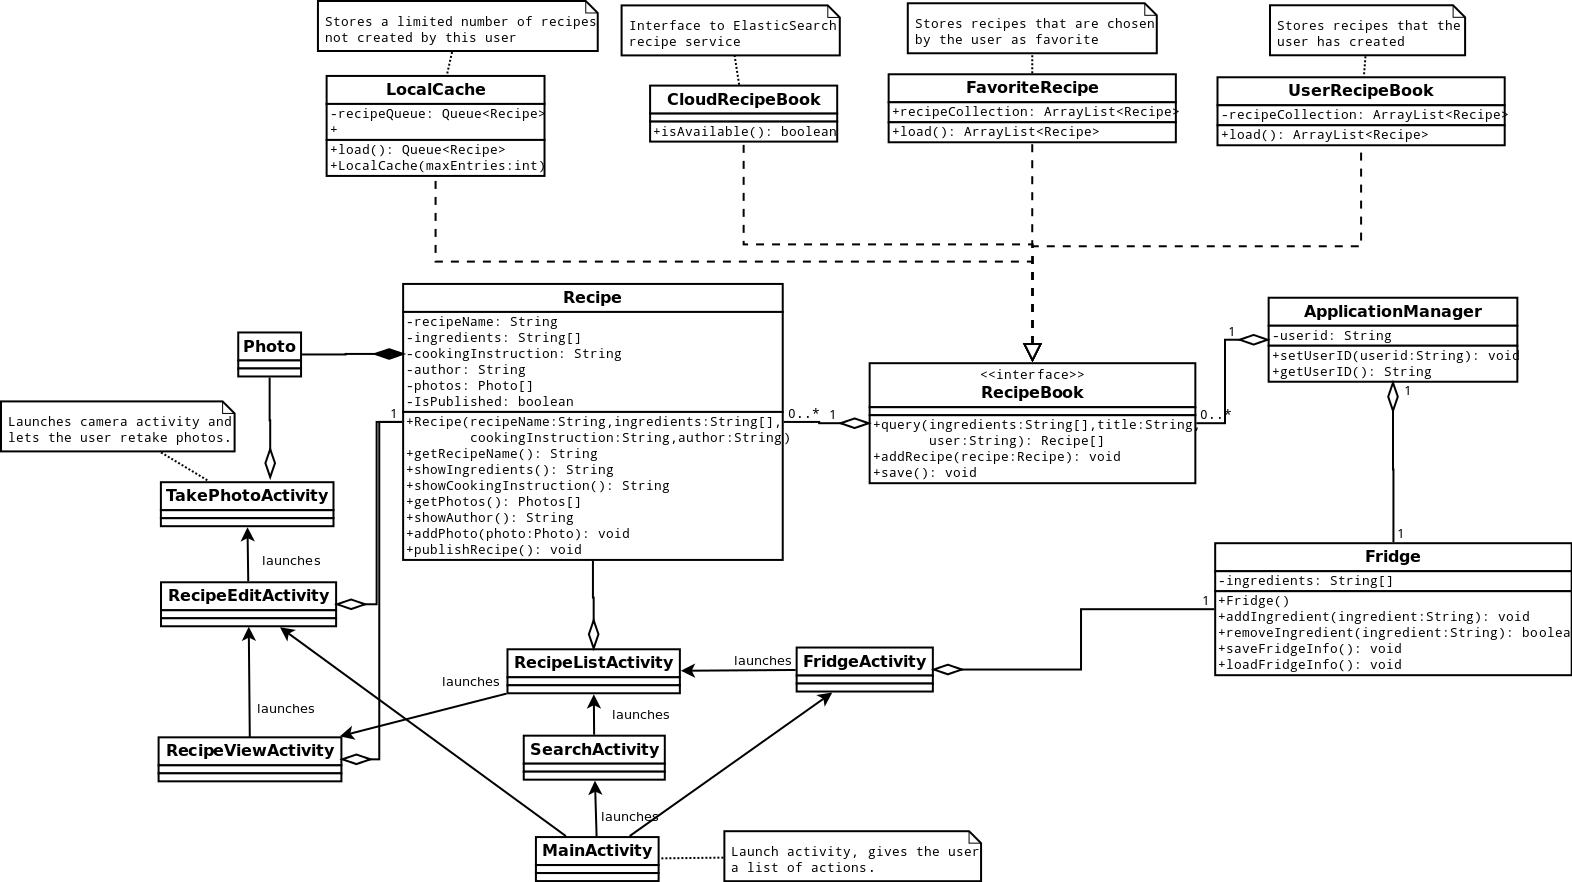
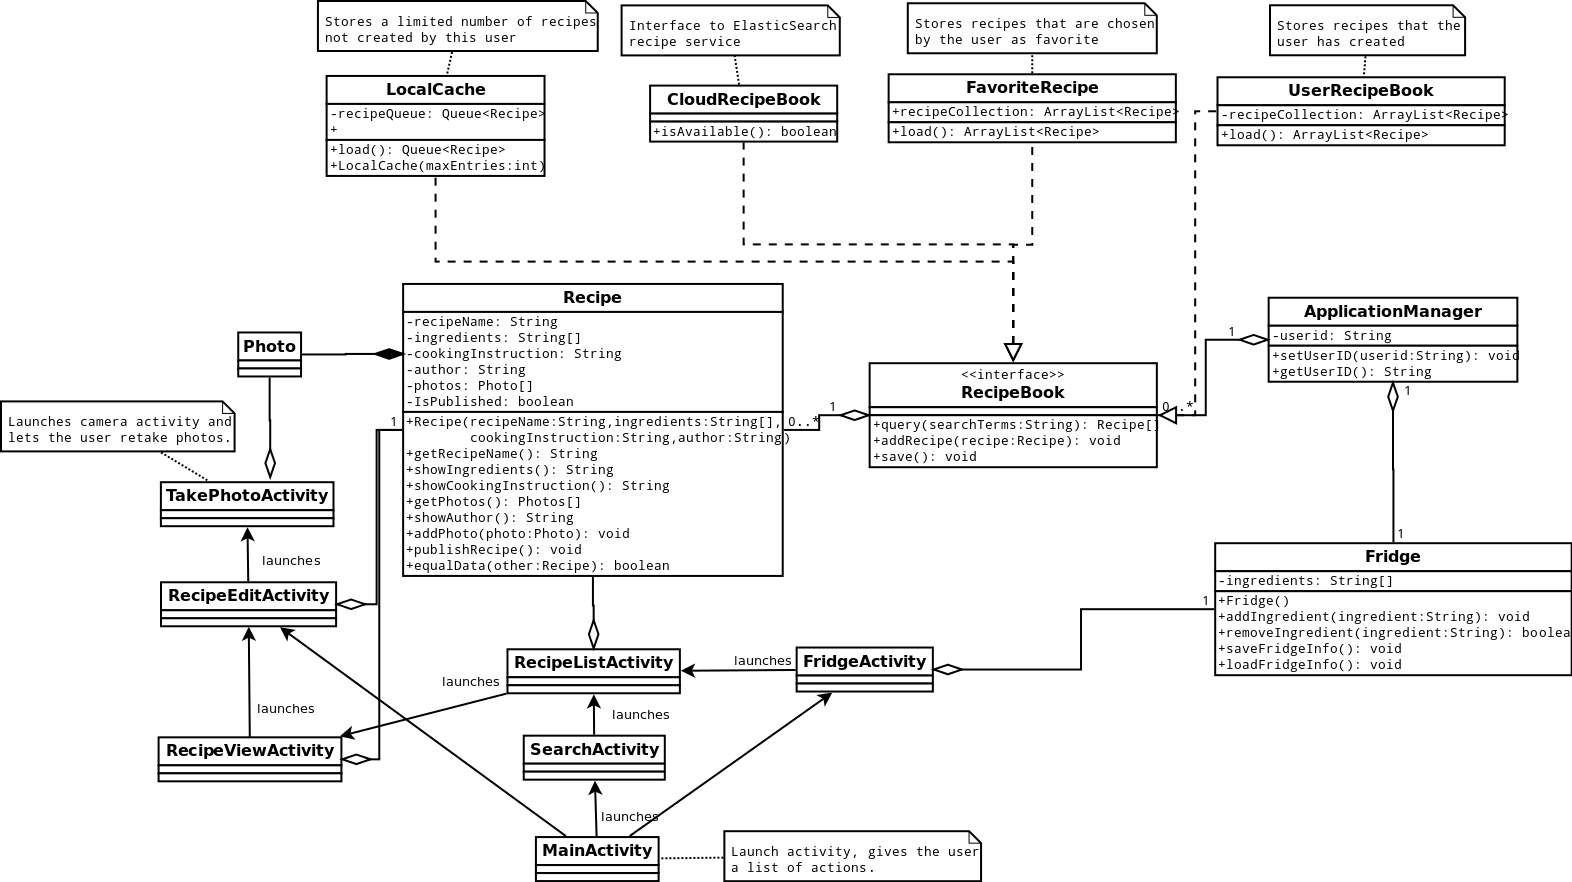
Change RecipeBook iface to use Google-style search
I.e. all terms (name/author/ingredients) are searched for
keywords.

Update UML to match.

diff --git a/src/ca/teamTen/recitopia/FavoriteRecipe.java b/src/ca/teamTen/recitopia/FavoriteRecipe.java
@@ -15,7 +15,7 @@ public class FavoriteRecipe implements RecipeBook {
 	private ArrayList<Recipe> recipeCollection;
 	
 	@Override
-	public Recipe[] query(String[] ingredients, String title, String user) {
+	public Recipe[] query(String searchTerms) {
 		// TODO Auto-generated method stub
 		return null;
 	}

diff --git a/src/ca/teamTen/recitopia/UserRecipeBook.java b/src/ca/teamTen/recitopia/UserRecipeBook.java
@@ -16,7 +16,7 @@ public class UserRecipeBook implements RecipeBook{
 	private ArrayList<Recipe> recipeCollection;
 	
 	@Override
-	public Recipe[] query(String[] ingredients, String title, String user) {
+	public Recipe[] query(String searchTerms) {
 		// TODO Auto-generated method stub
 		return null;
 	}

diff --git a/src/ca/teamTen/recitopia/CloudRecipeBook.java b/src/ca/teamTen/recitopia/CloudRecipeBook.java
@@ -6,7 +6,7 @@ import android.content.Context;
 public class CloudRecipeBook implements RecipeBook{
 
 	@Override
-	public Recipe[] query(String[] ingredients, String title, String user) {
+	public Recipe[] query(String searchTerms) {
 		// TODO Auto-generated method stub
 		return null;
 	}

diff --git a/src/ca/teamTen/recitopia/LocalCache.java b/src/ca/teamTen/recitopia/LocalCache.java
@@ -28,7 +28,7 @@ public class LocalCache implements RecipeBook{
 	}
 	
 	@Override
-	public Recipe[] query(String[] ingredients, String title, String user) {
+	public Recipe[] query(String searchTerms) {
 		// TODO Auto-generated method stub
 		return null;
 	}

diff --git a/src/ca/teamTen/recitopia/RecipeBook.java b/src/ca/teamTen/recitopia/RecipeBook.java
@@ -4,7 +4,7 @@ import android.content.Context;
 
 public interface RecipeBook {
 
-	public Recipe[] query(String[] ingredients, String title, String user);
+	public Recipe[] query(String searchTerms);
 	
 	public void addRecipe(Recipe recipe);
 	
